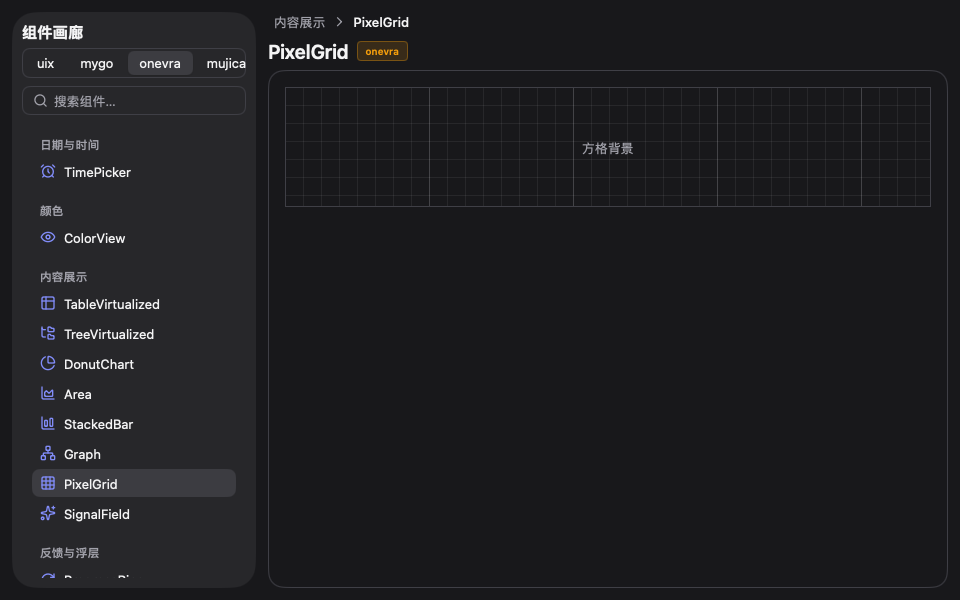
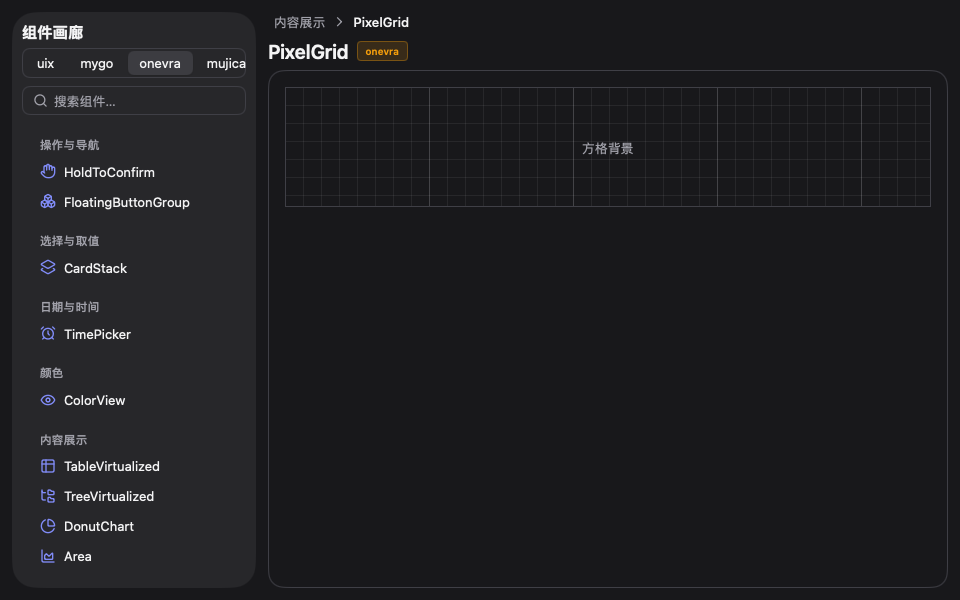
gallery: port onevra v0.2026.13's new examples into the onevra tab
The version added eight components beyond what the gallery showed, so the
onevra tab would have missed what the update brings. Each new page keeps
the gallery's compact, mostly-static style: AvatarGroup, CardStack,
FloatingButtonGroup, HoldToConfirm, ImageCompare, ScrollEdgeBar, and the
flow diagram and treemap join their categories. The image-compare demo
paints its own landscape, so it needs no asset. The tests draw the new
pages and check their content, and the snapshot command now also writes
the image-compare page.

diff --git a/examples/gallery/view/demos_onevra.go b/examples/gallery/view/demos_onevra.go
@@ -1,0 +1,222 @@
+package view
+
+import (
+	"fmt"
+	"image"
+	"image/color"
+
+	"github.com/egoist/mygo/ui"
+
+	"github.com/oneo-me/onevra/source/components"
+	"github.com/oneo-me/onevra/source/components/flow"
+	"github.com/oneo-me/onevra/source/components/treemap"
+
+	"github.com/smallnest/uix/components/lucide"
+)
+
+// This file draws the pages of the onevra components its author added in
+// v0.2026.13: AvatarGroup, CardStack, FloatingButtonGroup, HoldToConfirm,
+// ImageCompare, ScrollEdgeBar, the flow diagram and the treemap. Their
+// demos keep the uix gallery's compact, mostly static style.
+
+// demoAvatarGroup shows onevra's overlapping avatars, the rest collapsing
+// into a +N chip.
+func demoAvatarGroup(c *ui.Context, t *ui.Theme) {
+	components.AvatarGroup(c, []components.AvatarGroupMember{
+		{Name: "Ada Lovelace", Status: components.AvatarOnline},
+		{Name: "Alan Turing"},
+		{Name: "Grace Hopper", Status: components.AvatarOffline},
+		{Name: "Margaret Hamilton"},
+		{Name: "Katherine Johnson"},
+		{Name: "Dennis Ritchie"},
+		{Name: "Linus Torvalds"},
+	}, components.AvatarGroupOptions{Max: 5, Label: "团队成员"})
+}
+
+// demoCardStack shows onevra's swipeable deck of shortlist cards.
+func demoCardStack(c *ui.Context, t *ui.Theme) {
+	face := func(name, place, note string, icon func() *ui.SVG, tint ui.Color) func(*ui.Context, float32) {
+		return func(c *ui.Context, radius float32) {
+			ui.Column(c).Fill().Children(func() {
+				ui.Box(c).FillWidth().Height(110).Center().Radius(radius, radius, 0, 0).
+					LinearGradient(ui.LinearGradient{From: tint.Alpha(.32), To: tint.Alpha(.08), Angle: 135}).
+					Children(func() {
+						ui.Icon(c, icon()).Size(30, 30).TextColor(tint)
+					})
+				ui.Column(c).FillWidth().Padding(t.Space(4)).Gap(t.Space(1)).Children(func() {
+					ui.Text(c, name).FontWeight(600)
+					ui.Text(c, place).TextColor(t.TextMuted)
+					ui.Text(c, note).TextColor(t.TextMuted).Wrap()
+				})
+			})
+		}
+	}
+	components.CardStack(c, &Demo.OCardStack, components.CardStackOptions{
+		Label:        "旅行候选",
+		LeftLabel:    "跳过",
+		RightLabel:   "想去",
+		LeftOutcome:  "已跳过",
+		RightOutcome: "已想去",
+		Items: []components.CardStackItem{
+			{ID: "lisbon", Label: "里斯本", Content: face("里斯本", "葡萄牙", "电车在七座山丘间穿行。", lucide.TramFront, ui.RGB(226, 132, 72))},
+			{ID: "kyoto", Label: "京都", Content: face("京都", "日本", "枫叶季的寺庙与庭园。", lucide.Landmark, ui.RGB(206, 86, 110))},
+			{ID: "reykjavik", Label: "雷克雅未克", Content: face("雷克雅未克", "冰岛", "午夜太阳与蓝湖。", lucide.Snowflake, ui.RGB(72, 150, 214))},
+			{ID: "queenstown", Label: "皇后镇", Content: face("皇后镇", "新西兰", "湖畔跳伞与远足。", lucide.Mountain, ui.RGB(126, 112, 214))},
+		},
+	})
+}
+
+// demoFloatingButtonGroup shows onevra's floating tray of a board's
+// actions; undo and redo stay disabled until a click enables the other.
+func demoFloatingButtonGroup(c *ui.Context, t *ui.Theme) {
+	items := []components.FloatingButtonGroupItem{
+		{ID: "undo", Label: "撤销", Icon: lucide.Undo2, IconOnly: true, Shortcut: "⌘Z", Disabled: Demo.OFloating.edits == 0},
+		{ID: "redo", Label: "重做", Icon: lucide.Redo2, IconOnly: true, Shortcut: "⇧⌘Z", Disabled: Demo.OFloating.undone == 0},
+		{Separator: true},
+		{ID: "comment", Label: "评论", Icon: lucide.MessageCircle, Shortcut: "C"},
+		{ID: "present", Label: "演示", Icon: lucide.Play, Toggle: true, On: Demo.OFloating.presenting},
+	}
+	switch components.FloatingButtonGroup(c, "画布操作", components.FloatingButtonGroupMuted, ui.Horizontal, items).Clicked() {
+	case "undo":
+		Demo.OFloating.edits--
+		Demo.OFloating.undone++
+	case "redo":
+		Demo.OFloating.edits++
+		Demo.OFloating.undone--
+	case "present":
+		Demo.OFloating.presenting = !Demo.OFloating.presenting
+	}
+}
+
+// demoHoldToConfirm shows onevra's long-press button, which completes a
+// destructive action only after the hold fills; the reset button restores it.
+func demoHoldToConfirm(c *ui.Context, t *ui.Theme) {
+	ui.Row(c).Wrap().Gap(t.Space(3)).AlignItems(ui.Center).Children(func() {
+		h := components.HoldToConfirm(c, &Demo.OHold, "长按归档", components.HoldToConfirmOptions{ConfirmedLabel: "已归档", Icon: lucide.Archive()})
+		switch {
+		case h.Holding():
+			ui.Text(c, "继续按住…").TextColor(t.TextMuted)
+		case Demo.OHold:
+			if components.Button(c, "重置", components.ButtonGhost).Clicked() {
+				Demo.OHold = false
+			}
+		}
+	})
+}
+
+// compareColor and compareGray are the picture the image-compare demo
+// slides between: a small landscape painted once, color on one side and
+// its luminance on the other, so the demo needs no asset.
+var (
+	compareColor = compareBitmap(false)
+	compareGray  = compareBitmap(true)
+)
+
+// compareBitmap paints a landscape of sky, sun and hills of w×h pixels;
+// gray draws the same picture in luminance.
+func compareBitmap(gray bool) ui.ImageSource {
+	const w, h = 480, 300
+	img := image.NewRGBA(image.Rect(0, 0, w, h))
+	horizon := h * 2 / 3
+	lum := func(r, g, b uint8) uint8 {
+		return uint8(0.299*float32(r) + 0.587*float32(g) + 0.114*float32(b))
+	}
+	lerp := func(a, b uint8, f float32) uint8 { return uint8(float32(a) + (float32(b)-float32(a))*f) }
+	for y := 0; y < h; y++ {
+		for x := 0; x < w; x++ {
+			var r, g, b uint8
+			if y < horizon {
+				f := float32(y) / float32(horizon)
+				r, g, b = lerp(48, 150, f), lerp(96, 205, f), lerp(190, 235, f)
+			} else {
+				f := float32(y-horizon) / float32(h-horizon)
+				r, g, b = lerp(88, 52, f), lerp(148, 92, f), lerp(92, 56, f)
+			}
+			dx, dy := float32(x-380), float32(y-64)
+			if dx*dx+dy*dy < 46*46 {
+				r, g, b = 250, 222, 120
+			}
+			if gray {
+				v := lum(r, g, b)
+				r, g, b = v, v, v
+			}
+			img.SetRGBA(x, y, color.RGBA{R: r, G: g, B: b, A: 255})
+		}
+	}
+	return ui.NewBitmap(img)
+}
+
+// demoImageCompare shows onevra's slider between the color picture and
+// its grayscale, so both sides stay aligned without a second asset.
+func demoImageCompare(c *ui.Context, t *ui.Theme) {
+	side := func(src ui.ImageSource) func() {
+		return func() {
+			components.Image(c, src).Fill().Fit(ui.Cover)
+		}
+	}
+	components.ImageCompare(c, &Demo.OCompare, side(compareGray), side(compareColor), components.ImageCompareOptions{
+		BeforeLabel: "原图",
+		AfterLabel:  "灰阶",
+	}).FillWidth().MaxWidth(520)
+}
+
+// demoScrollEdgeBar docks a toolbar over a scrolling list, its surface
+// fading over the content near the edge.
+func demoScrollEdgeBar(c *ui.Context, t *ui.Theme) {
+	inset := components.ScrollEdgeBarExtent(c, components.ScrollEdgeBarOptions{})
+	ui.Box(c).FillWidth().MinWidth(0).Height(320).Radius(t.Radius*2).Clip().
+		Background(t.Background).Border(1, t.Border).Children(func() {
+		components.ScrollView(c, components.ScrollViewOptions{}).Fill().Padding(inset+8, 16).
+			ScrollbarInsets(inset, 0).Gap(10).Children(func() {
+			for i := range 12 {
+				ui.Row(c).Gap(12).AlignItems(ui.Center).Children(func() {
+					ui.Box(c).Size(48, 36).Radius(8).Shrink(0).Background(t.SurfaceHover)
+					ui.Text(c, fmt.Sprintf("第 %d 行", i+1)).TextColor(t.TextMuted)
+				})
+			}
+		})
+		components.ScrollEdgeBar(c, components.ScrollEdgeBarOptions{}, func() {
+			components.IconButton(c, lucide.ChevronLeft(), "返回", components.IconButtonPlain)
+			ui.Text(c, "文件列表").Bold().Grow(1)
+			components.IconButton(c, lucide.Share(), "分享", components.IconButtonPlain)
+		}).Label("工具栏")
+	})
+}
+
+// demoFlow shows onevra's flow diagram of a plan's steps, laid out left
+// to right and linked by their edges.
+func demoFlow(c *ui.Context, t *ui.Theme) {
+	card := func(title, desc string) func(*ui.Context) {
+		return func(c *ui.Context) {
+			flow.Card(c, flow.CardOptions{Title: title, Description: desc})
+		}
+	}
+	flow.View(c, &Demo.OFlow, flow.Data{
+		Nodes: []flow.Node{
+			{ID: "research", Label: "调研", Content: card("调研", "理解需求")},
+			{ID: "design", Label: "设计", Content: card("设计", "原型与走查")},
+			{ID: "build", Label: "开发", Content: card("开发", "实现与自测")},
+			{ID: "release", Label: "发布", Content: card("发布", "灰度与上线")},
+		},
+		Edges: []flow.Edge{
+			{Source: "research", Target: "design"},
+			{Source: "design", Target: "build"},
+			{Source: "build", Target: "release"},
+		},
+	}, flow.Options{Height: 240})
+}
+
+// demoTreemap shows onevra's treemap of a disk's folders, sized by
+// occupied space; clicking a tile drills into it and breadcrumbs lead
+// back.
+func demoTreemap(c *ui.Context, t *ui.Theme) {
+	treemap.View(c, &Demo.OTreemap, []treemap.Node{
+		{ID: "photos", Label: "照片", Value: 3200, Children: []treemap.Node{
+			{ID: "photos/2026", Label: "2026", Value: 1800},
+			{ID: "photos/old", Label: "往年", Value: 1400},
+		}},
+		{ID: "docs", Label: "文档", Value: 1200},
+		{ID: "videos", Label: "视频", Value: 2400},
+		{ID: "music", Label: "音乐", Value: 600},
+	}, treemap.Options{Label: "磁盘占用", Height: 260})
+}

diff --git a/examples/gallery/view/catalog.go b/examples/gallery/view/catalog.go
@@ -71,6 +71,8 @@ var catalog = []Section{
 			{"magicback", "MagicBack", Uix, lucide.Undo2, demoMagicBack},
 			{"interactivestepper", "InteractiveStepper", Uix, lucide.Footprints, demoInteractiveStepper},
 			{"backbutton", "BackButton", Mygo, lucide.CornerUpLeft, demoBackButton},
+			{"holdtoconfirm", "HoldToConfirm", Onevra, lucide.Hand, demoHoldToConfirm},
+			{"floatingbuttongroup", "FloatingButtonGroup", Onevra, lucide.Boxes, demoFloatingButtonGroup},
 		},
 	},
 	{
@@ -108,6 +110,7 @@ var catalog = []Section{
 			{"rating", "Rating", Uix, lucide.Star, demoRating},
 			{"meter", "Meter", Uix, lucide.Gauge, demoMeter},
 			{"stepslider", "StepSlider", Mygo, lucide.ListMusic, demoStepSlider},
+			{"cardstack", "CardStack", Onevra, lucide.Layers2, demoCardStack},
 		},
 	},
 	{
@@ -174,6 +177,10 @@ var catalog = []Section{
 			{"motion", "Motion", Mygo, lucide.Film, demoMotion},
 			{"chart", "Chart", Mygo, lucide.ChartScatter, demoChart},
 			{"outlinetable", "OutlineTable", Mygo, lucide.TableProperties, demoOutlineTable},
+			{"avatargroup", "AvatarGroup", Onevra, lucide.Users, demoAvatarGroup},
+			{"imagecompare", "ImageCompare", Onevra, lucide.Images, demoImageCompare},
+			{"treemap", "Treemap", Onevra, lucide.Blocks, demoTreemap},
+			{"flow", "Flow", Onevra, lucide.Workflow, demoFlow},
 		},
 	},
 	{
@@ -237,6 +244,7 @@ var catalog = []Section{
 			{"canvas", "Canvas", Mygo, lucide.PenTool, demoCanvas},
 			{"splitvertical", "SplitVertical", Mygo, lucide.AlignVerticalJustifyStart, demoSplitVertical},
 			{"appshell", "AppShell", Uix, lucide.LayoutPanelTop, demoAppShell},
+			{"scrolledgebar", "ScrollEdgeBar", Onevra, lucide.PanelTopOpen, demoScrollEdgeBar},
 		},
 	},
 }

diff --git a/examples/gallery/view/state.go b/examples/gallery/view/state.go
@@ -10,6 +10,8 @@ import (
 
 	components "github.com/oneo-me/onevra/source/components"
 	ochat "github.com/oneo-me/onevra/source/components/chat"
+	"github.com/oneo-me/onevra/source/components/flow"
+	"github.com/oneo-me/onevra/source/components/treemap"
 
 	"github.com/smallnest/uix/components/carousel"
 	"github.com/smallnest/uix/components/command"
@@ -176,6 +178,23 @@ type DemoState struct {
 	ShaderStill     bool
 	ShaderInert     bool
 	ShaderPrompt    string
+	// The onevra v0.2026.13 pages: the deck of the card stack, the hold
+	// that confirmed, the compare slider's position, the drill of the
+	// treemap and the camera of the flow, and the board the floating
+	// button group edits.
+	OCardStack components.CardStackState
+	OHold      bool
+	OCompare   float32
+	OTreemap   treemap.State
+	OFlow      flow.State
+	OFloating  floatingDemoState
+}
+
+// floatingDemoState is the sample board of the floating button group: how
+// many edits it has and undid, and whether presenting is on.
+type floatingDemoState struct {
+	edits, undone int
+	presenting    bool
 }
 
 // Reset puts the example in its initial state, for the tests and the

diff --git a/examples/gallery/cmd/snapshot/main.go b/examples/gallery/cmd/snapshot/main.go
@@ -13,10 +13,11 @@ import (
 	"github.com/smallnest/uix/examples/gallery/view"
 )
 
-// pages are the snapshots: a uix page, a mygo page, an onevra page and
-// a MujicaUI page, by the sidebar ID and library of each. The gallery
-// shows one library at a time, so the filter picks the page's library
-// or the gallery lands on the library's first page instead.
+// pages are the snapshots: a uix page, a mygo page, two onevra pages —
+// the established one and a v0.2026.13 newcomer — and a MujicaUI page,
+// by the sidebar ID and library of each. The gallery shows one library
+// at a time, so the filter picks the page's library or the gallery lands
+// on the library's first page instead.
 var pages = []struct {
 	name, id string
 	lib      view.Library
@@ -24,6 +25,7 @@ var pages = []struct {
 	{"gallery", "button", view.Uix},
 	{"gallery-box", "box", view.Mygo},
 	{"gallery-pixelgrid", "pixelgrid", view.Onevra},
+	{"gallery-imagecompare", "imagecompare", view.Onevra},
 	{"gallery-mujica-appshell", "001", view.Mujica},
 }
 

diff --git a/examples/gallery/view/catalog_test.go b/examples/gallery/view/catalog_test.go
@@ -143,6 +143,15 @@ func TestOnevraPagesDrawContent(t *testing.T) {
 		{"tablevirtualized", "文件_1.go"},
 		{"treevirtualized", "file_0001.go"},
 		{"conversation", "帮我审查这段代码。"},
+		// The v0.2026.13 pages.
+		{"treemap", "磁盘占用"},
+		{"flow", "发布"},
+		{"cardstack", "里斯本"},
+		{"holdtoconfirm", "长按归档"},
+		{"avatargroup", "Alan Turing"},
+		{"imagecompare", "原图"},
+		{"scrolledgebar", "文件列表"},
+		{"floatingbuttongroup", "撤销"},
 	} {
 		Reset()
 		filterTo(tc.id)

diff --git a/examples/README.md b/examples/README.md
@@ -181,7 +181,7 @@ it never dedupes.
 ```
 go run ./examples/gallery                open the window
 go test ./examples/gallery/...           render and check it headless
-go run ./examples/gallery/cmd/snapshot   write the gallery PNGs: a uix, a mygo, an onevra and a mujica page, light and dark
+go run ./examples/gallery/cmd/snapshot   write the gallery PNGs: a uix, a mygo, two onevra and a mujica page, light and dark
 ```
 
 ## Composer
